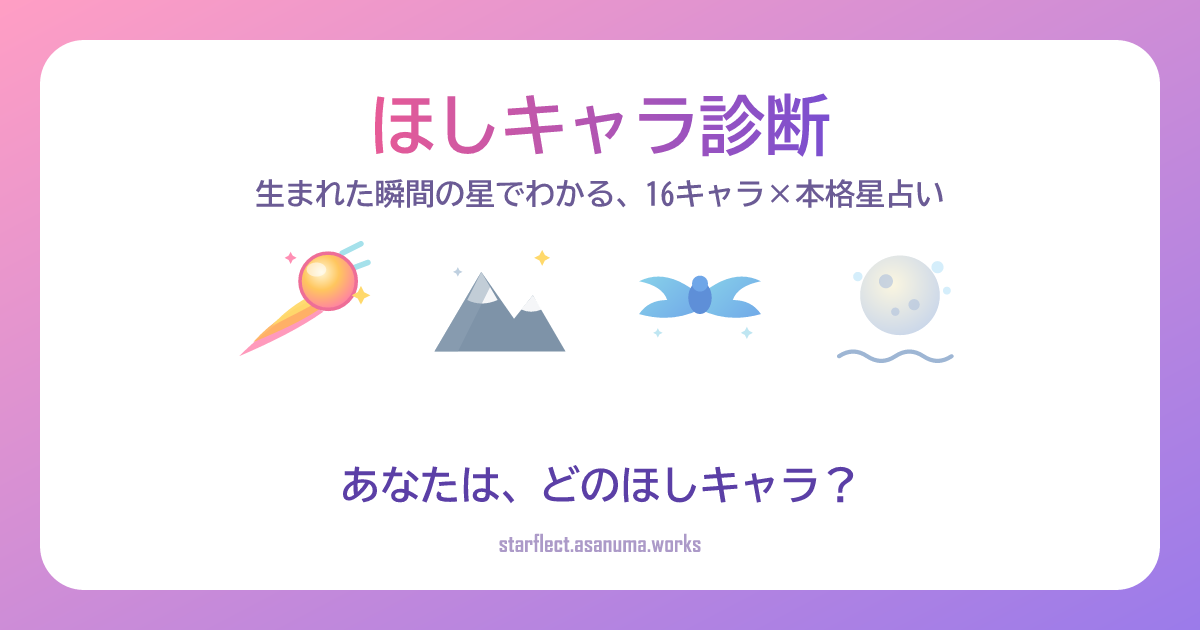
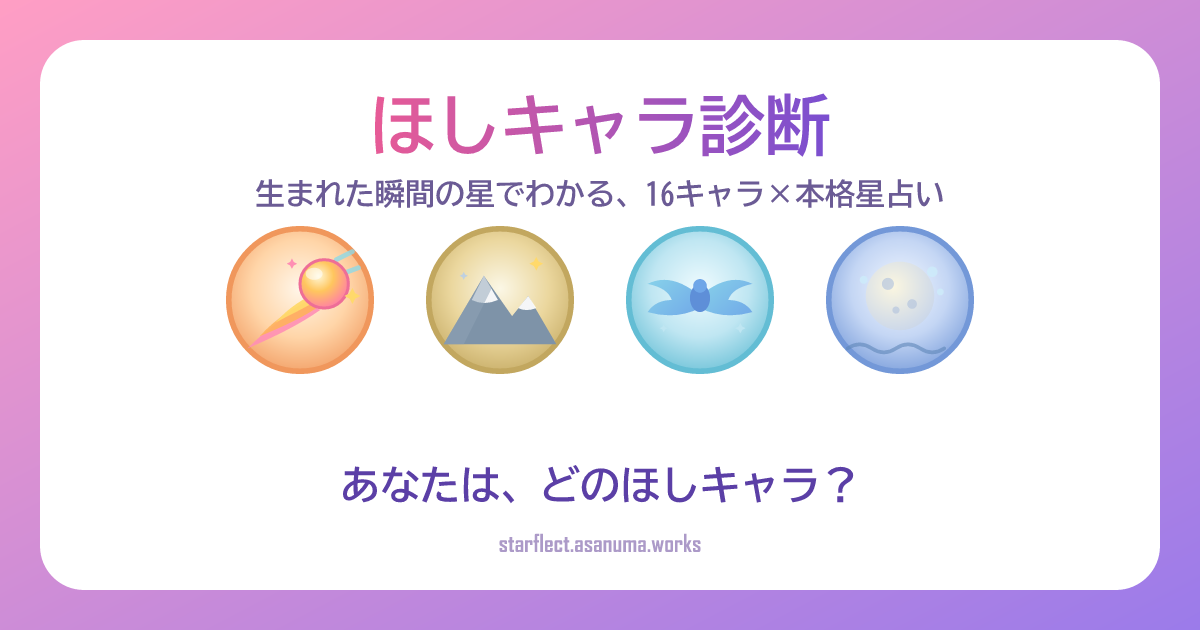
ほしキャラに「舞台」を持たせ、16キャラの個性を立てる
16枚のイラストは元からあったが、カード背景に素のSVGが浮いているだけで、
どのキャラも同じアイコンに見えていた。絵は描き直さず、見せ方を変える。

面＝太陽(表の顔)、輪郭＝月(心の中)。アプリが説明している「太陽×月」の式を
そのまま色にするので、4×4＝16通りの配色が生まれる。ゆらぎも太陽のエレメントで
変え、キャラごとに違う「光っているもの」だけが明滅する。

コンポーネント1つの変更で結果・相棒ホーム・相談室・相性・LP・キャラ別ページの
全12箇所に効く。同じコンポーネントから作っているOGP画像16枚も再生成した。

Changed region(s): [[0.185, 0.3619, 0.4933, 0.6032], [0.6783, 0.3619, 0.8325, 0.6032], [0.5242, 0.3619, 0.6475, 0.6032]]

diff --git a/src/components/HoshiKyaraMascot.tsx b/src/components/HoshiKyaraMascot.tsx
@@ -32,7 +32,7 @@ function scene(key: Key, id: string): ReactNode {
           <path d="M37 34 C25 39 15 47 6 56 C20 50 32 44 42 37 Z" fill="#FF8FB4" opacity="0.9" />
           <path d="M39 31 C30 35 20 41 12 50 C24 45 35 40 43 34 Z" fill="#FFB25C" opacity="0.9" />
           <path d="M41 28 C34 31 26 36 20 43 C30 38 38 34 44 30 Z" fill="#FFD96B" opacity="0.95" />
-          <circle cx="44" cy="24" r="12" fill={`url(#${g('h')})`} stroke="#EE6E97" strokeWidth="1.5" />
+          <circle className="hk-glow" cx="44" cy="24" r="12" fill={`url(#${g('h')})`} stroke="#EE6E97" strokeWidth="1.5" />
           <ellipse cx="39" cy="19" rx="4.2" ry="3" fill="#ffffff" opacity="0.55" />
           {spark(58, 30, 4, '#FFD96B')}
           {spark(28, 14, 2.6, '#FF8FB4')}
@@ -54,7 +54,7 @@ function scene(key: Key, id: string): ReactNode {
             d="M32 8 C40 20 44 26 44 36 A12 12 0 0 1 20 36 C20 30 24 26 27 21 C29 29 32 29 33 28 C31 21 30 15 32 8 Z"
             fill={`url(#${g('f')})`}
           />
-          <path d="M32 24 C36 30 37 33 37 37 A5 5 0 0 1 27 37 C27 33 30 30 32 24 Z" fill="#FFE884" opacity="0.9" />
+          <path className="hk-glow" d="M32 24 C36 30 37 33 37 37 A5 5 0 0 1 27 37 C27 33 30 30 32 24 Z" fill="#FFE884" opacity="0.9" />
           {spark(48, 16, 3, '#FFCF4D')}
         </>
       )
@@ -73,7 +73,7 @@ function scene(key: Key, id: string): ReactNode {
             <circle cx="45" cy="41" r="1.8" fill="#F5A0C6" />
             <circle cx="19" cy="41" r="1.8" fill="#7FC8E8" />
           </g>
-          <circle cx="32" cy="26" r="3" fill="#FFF0B8" />
+          <circle className="hk-glow" cx="32" cy="26" r="3" fill="#FFF0B8" />
           <path d="M31 50 q1 -6 1 -14" stroke="#F5C24A" strokeWidth="1.6" fill="none" strokeLinecap="round" opacity="0.7" />
           {spark(52, 48, 2.4, '#FF8FB4')}
         </>
@@ -93,7 +93,7 @@ function scene(key: Key, id: string): ReactNode {
           />
           <path d="M22 38 q5 -5 10 0 t10 0 a10 10 0 0 1 -20 0 z" fill="#5FB3E8" />
           <path d="M22 39 q5 -4.5 10 0 t10 0" fill="none" stroke="#ffffff" strokeWidth="1.4" strokeLinecap="round" opacity="0.7" />
-          {spark(46, 14, 3, '#FFE29A')}
+          <g className="hk-glow">{spark(46, 14, 3, '#FFE29A')}</g>
         </>
       )
     case '地火': // 静かな火山
@@ -106,7 +106,7 @@ function scene(key: Key, id: string): ReactNode {
           <path d="M12 52 L26 20 h12 L52 52 Z" fill="#8A7F94" />
           <path d="M26 20 h12 L44 34 q-12 5 -24 0 Z" fill="#75697F" opacity="0.6" />
           <ellipse cx="32" cy="20" rx="7" ry="2.4" fill="#FF7A3C" />
-          <ellipse cx="32" cy="20" rx="3.4" ry="1.2" fill="#FFD34D" />
+          <ellipse className="hk-glow" cx="32" cy="20" rx="3.4" ry="1.2" fill="#FFD34D" />
           <path d="M26 24 q6 3 12 0" stroke="#FF8A4B" strokeWidth="2" fill="none" strokeLinecap="round" opacity="0.6" />
           {spark(50, 16, 2.6, '#FFCF4D')}
         </>
@@ -118,7 +118,7 @@ function scene(key: Key, id: string): ReactNode {
           <path d="M24 20 L31 32 q-7 3 -13 0 Z" fill="#ffffff" opacity="0.92" />
           <path d="M46 30 L50 36 q-5 2 -9 0 Z" fill="#ffffff" opacity="0.92" />
           <path d="M4 54 L24 20 L28 26 L14 54 Z" fill="#8FA3B6" opacity="0.5" />
-          {spark(50, 14, 3.4, '#FFD96B')}
+          <g className="hk-glow">{spark(50, 14, 3.4, '#FFD96B')}</g>
           {spark(14, 20, 2, '#BFD0E0')}
         </>
       )
@@ -135,14 +135,14 @@ function scene(key: Key, id: string): ReactNode {
             <path d="M50 24 q5 -1 8 2" />
           </g>
           <path d="M50 34 q3 3 0 6 q-3 -1 -2 -4" fill="#8FC46B" />
-          {spark(14, 16, 2.6, '#FFE29A')}
+          <g className="hk-glow">{spark(14, 16, 2.6, '#FFE29A')}</g>
         </>
       )
     case '地水': // 泉を隠す森
       return (
         <>
           <ellipse cx="32" cy="50" rx="15" ry="5" fill="#7FC0E8" />
-          <ellipse cx="32" cy="49" rx="9" ry="2.6" fill="#B8E2F5" opacity="0.8" />
+          <ellipse className="hk-glow" cx="32" cy="49" rx="9" ry="2.6" fill="#B8E2F5" opacity="0.8" />
           <path d="M20 44 L14 30 L26 30 Z" fill="#6FA84E" />
           <path d="M20 36 L15 24 L25 24 Z" fill="#8CC46B" />
           <rect x="18.5" y="42" width="3" height="6" fill="#8A5E38" />
@@ -161,7 +161,7 @@ function scene(key: Key, id: string): ReactNode {
             <path d="M10 34 h30 a5 5 0 1 1 -5 5" opacity="0.85" />
             <path d="M8 44 h18 a4 4 0 1 0 -4 -4" opacity="0.7" />
           </g>
-          <g>
+          <g className="hk-glow">
             <circle cx="46" cy="20" r="2.4" fill="#FF8A3C" />
             <circle cx="52" cy="34" r="2" fill="#FFB25C" />
             <circle cx="40" cy="46" r="1.8" fill="#FF7A5B" />
@@ -180,7 +180,7 @@ function scene(key: Key, id: string): ReactNode {
           <path d="M32 16 L37 32 L32 30 Z" fill="#E8574F" />
           <path d="M32 48 L27 32 L32 34 Z" fill="#5E6E86" />
           <circle cx="32" cy="32" r="2.4" fill="#3a2f57" />
-          {spark(53, 14, 2.6, '#FFD96B')}
+          <g className="hk-glow">{spark(53, 14, 2.6, '#FFD96B')}</g>
         </>
       )
     case '風風': // 自由な渡り鳥
@@ -196,14 +196,16 @@ function scene(key: Key, id: string): ReactNode {
           <path d="M32 30 q14 -12 26 -6 q-10 2 -12 8 q8 0 12 6 q-14 4 -26 -2 Z" fill={`url(#${g('w')})`} />
           <ellipse cx="32" cy="31" rx="5" ry="7" fill="#5E8FD8" />
           <circle cx="32" cy="25" r="3.4" fill="#6FA6E8" />
-          {spark(52, 46, 2.6, '#BFE6F2')}
-          {spark(14, 46, 2, '#BFE6F2')}
+          <g className="hk-glow">
+            {spark(52, 46, 2.6, '#BFE6F2')}
+            {spark(14, 46, 2, '#BFE6F2')}
+          </g>
         </>
       )
     case '風水': // 月夜のそよ風
       return (
         <>
-          <path d="M40 12 a16 16 0 1 0 6 24 a13 13 0 1 1 -6 -24 Z" fill="#F6E7A8" stroke="#E3CB6B" strokeWidth="1.2" />
+          <path className="hk-glow" d="M40 12 a16 16 0 1 0 6 24 a13 13 0 1 1 -6 -24 Z" fill="#F6E7A8" stroke="#E3CB6B" strokeWidth="1.2" />
           <g fill="none" stroke="#7FC8E0" strokeWidth="2.4" strokeLinecap="round" opacity="0.9">
             <path d="M8 44 h20 a4 4 0 1 0 -4 -4" />
             <path d="M12 52 h14 a3.4 3.4 0 1 1 -3 3" opacity="0.8" />
@@ -218,7 +220,7 @@ function scene(key: Key, id: string): ReactNode {
           <path d="M12 54 L26 24 h12 L52 54 Z" fill="#3C5A86" />
           <path d="M26 24 h12 L44 36 q-12 5 -24 0 Z" fill="#2E4870" opacity="0.7" />
           <ellipse cx="32" cy="24" rx="6.5" ry="2.2" fill="#FF7A3C" />
-          <ellipse cx="32" cy="24" rx="3" ry="1" fill="#FFD34D" />
+          <ellipse className="hk-glow" cx="32" cy="24" rx="3" ry="1" fill="#FFD34D" />
           <path d="M28 28 q4 4 8 0" stroke="#FF8A4B" strokeWidth="2" fill="none" strokeLinecap="round" opacity="0.6" />
           <g fill="#CDEBFA" opacity="0.9">
             <circle cx="46" cy="20" r="2.4" />
@@ -239,7 +241,7 @@ function scene(key: Key, id: string): ReactNode {
           <g stroke="#7FB6D8" strokeWidth="1.8" strokeLinecap="round" fill="none" opacity="0.85">
             <path d="M8 54 q4 -3 8 0 t8 0 t8 0 t8 0 t8 0" />
           </g>
-          {spark(52, 14, 2.6, '#CDEBFA')}
+          <g className="hk-glow">{spark(52, 14, 2.6, '#CDEBFA')}</g>
         </>
       )
     case '水風': // 風をうつす水面
@@ -254,7 +256,7 @@ function scene(key: Key, id: string): ReactNode {
             <path d="M12 20 h22 a4 4 0 1 0 -4 -4" />
             <path d="M16 28 h16 a3.4 3.4 0 1 1 -3 3" opacity="0.8" />
           </g>
-          {spark(50, 16, 2.6, '#CDEBFA')}
+          <g className="hk-glow">{spark(50, 16, 2.6, '#CDEBFA')}</g>
         </>
       )
     case '水水': // 深海の月
@@ -266,7 +268,7 @@ function scene(key: Key, id: string): ReactNode {
               <stop offset="100%" stopColor="#C9D6EA" />
             </radialGradient>
           </defs>
-          <circle cx="32" cy="30" r="17" fill={`url(#${g('m')})`} />
+          <circle className="hk-glow" cx="32" cy="30" r="17" fill={`url(#${g('m')})`} />
           <g fill="#B6C6DE" opacity="0.7">
             <circle cx="26" cy="24" r="3" />
             <circle cx="38" cy="34" r="2.4" />
@@ -283,19 +285,49 @@ function scene(key: Key, id: string): ReactNode {
   }
 }
 
+/**
+ * 舞台(背景の円)の色。**外側＝太陽（表の顔）／中心＝月（心の中）** で、
+ * アプリが説明している「太陽×月」の式をそのまま色にしている。
+ * 4×4＝16通りなので、キャラごとに自分の色を持つことになる。
+ */
+const STAGE: Record<Element, { core: string; light: string; deep: string }> = {
+  火: { core: '#FFF6E9', light: '#FFD5A8', deep: '#F0975C' },
+  地: { core: '#FBF7E6', light: '#EBD79E', deep: '#C2A75F' },
+  風: { core: '#EFFBFE', light: '#BFE6F2', deep: '#63BDD4' },
+  水: { core: '#F2F7FF', light: '#C4D6F4', deep: '#7398D8' },
+}
+
+/** ゆらぎ方も太陽のエレメントで変える(火は揺れる／地はほとんど動かない／風は流れる／水は漂う) */
+const MOTION: Record<Element, string> = { 火: 'fire', 地: 'earth', 風: 'air', 水: 'water' }
+
 interface Props {
   sunElement: Element
   moonElement: Element
   size?: number
 }
 
-/** ほしキャラのマスコット(SVG)。16キャラそれぞれ固有のポップイラスト(顔なし)。 */
+/** ほしキャラのマスコット(SVG)。16キャラそれぞれ固有のポップイラスト(顔なし)＋固有の舞台。 */
 export default function HoshiKyaraMascot({ sunElement, moonElement, size = 72 }: Props) {
   const uid = useId().replace(/:/g, '')
   const key = `${sunElement}${moonElement}` as Key
+  const sun = STAGE[sunElement]
+  const moon = STAGE[moonElement]
   return (
     <svg width={size} height={size} viewBox="0 0 64 64" role="img" aria-hidden="true">
-      {scene(key, uid)}
+      <defs>
+        <radialGradient id={`${uid}stage`} cx="50%" cy="42%" r="66%">
+          <stop offset="0%" stopColor={sun.core} />
+          <stop offset="52%" stopColor={sun.light} />
+          <stop offset="100%" stopColor={sun.deep} />
+        </radialGradient>
+      </defs>
+      {/* 面＝太陽(表の顔)、輪郭＝月(心の中)。中心に月の色を置くと絵の下に隠れて見えないので輪郭に出す */}
+      <circle cx="32" cy="32" r="30.4" fill={`url(#${uid}stage)`} />
+      <circle cx="32" cy="32" r="30.4" fill="none" stroke={moon.deep} strokeWidth="2.4" />
+      {/* 絵は少し縮めて円の中に収める(山や水面など端まで描いているキャラが枠から出ないように) */}
+      <g transform="translate(32 32) scale(0.86) translate(-32 -32)">
+        <g className={`hk-m hk-m-${MOTION[sunElement]}`}>{scene(key, uid)}</g>
+      </g>
     </svg>
   )
 }

diff --git a/src/styles.css b/src/styles.css
@@ -1684,6 +1684,86 @@ body {
   margin: 0;
 }
 
+/* ---------- ほしキャラの舞台(マスコットの背景円と、キャラごとのゆらぎ) ---------- */
+/* SVGの<g>にCSS transformをかけるので、原点を自分のバウンディングボックスの中心にする */
+.hk-m {
+  transform-box: fill-box;
+  transform-origin: center;
+}
+
+/* キャラごとに「光っているもの」が違う(火口・彗星の核・月・泉の照り返し…)。そこだけが明滅する */
+.hk-glow {
+  animation: hk-glow 3.4s ease-in-out infinite alternate;
+}
+
+@keyframes hk-glow {
+  from {
+    opacity: 0.5;
+  }
+  to {
+    opacity: 1;
+  }
+}
+
+.hk-m-fire {
+  animation: hk-fire 4.2s ease-in-out infinite alternate;
+}
+
+@keyframes hk-fire {
+  from {
+    transform: translateY(0.6px) scale(0.99);
+  }
+  to {
+    transform: translateY(-0.6px) scale(1.012);
+  }
+}
+
+.hk-m-earth {
+  animation: hk-earth 7s ease-in-out infinite alternate;
+}
+
+@keyframes hk-earth {
+  from {
+    transform: scale(0.996);
+  }
+  to {
+    transform: scale(1.008);
+  }
+}
+
+.hk-m-air {
+  animation: hk-air 5.4s ease-in-out infinite alternate;
+}
+
+@keyframes hk-air {
+  from {
+    transform: translateX(-0.9px) rotate(-1.2deg);
+  }
+  to {
+    transform: translateX(0.9px) rotate(1.2deg);
+  }
+}
+
+.hk-m-water {
+  animation: hk-water 6.2s ease-in-out infinite alternate;
+}
+
+@keyframes hk-water {
+  from {
+    transform: translateY(-0.8px);
+  }
+  to {
+    transform: translateY(0.8px);
+  }
+}
+
+@media (prefers-reduced-motion: reduce) {
+  .hk-m,
+  .hk-glow {
+    animation: none;
+  }
+}
+
 /* ---------- ほしキャラカード(結果の入口) ---------- */
 .type-card {
   position: relative;

diff --git a/server/pages.ts b/server/pages.ts
@@ -145,6 +145,7 @@ section .lead{text-align:left;color:var(--ink-sub);font-size:14px;margin-bottom:
 .starslink{display:block;text-align:center;margin:8px 0 0;font-size:13.5px}
 .footer{text-align:center;color:var(--ink-sub);font-size:12px;padding:32px 0;border-top:1px solid var(--line);margin-top:40px;line-height:1.9}
 @media(max-width:400px){.tgrid{grid-template-columns:1fr}}
+.hk-m{transform-box:fill-box;transform-origin:center}.hk-glow{animation:hk-glow 3.4s ease-in-out infinite alternate}@keyframes hk-glow{from{opacity:.5}to{opacity:1}}.hk-m-fire{animation:hk-fire 4.2s ease-in-out infinite alternate}@keyframes hk-fire{from{transform:translateY(.6px) scale(.99)}to{transform:translateY(-.6px) scale(1.012)}}.hk-m-earth{animation:hk-earth 7s ease-in-out infinite alternate}@keyframes hk-earth{from{transform:scale(.996)}to{transform:scale(1.008)}}.hk-m-air{animation:hk-air 5.4s ease-in-out infinite alternate}@keyframes hk-air{from{transform:translateX(-.9px) rotate(-1.2deg)}to{transform:translateX(.9px) rotate(1.2deg)}}.hk-m-water{animation:hk-water 6.2s ease-in-out infinite alternate}@keyframes hk-water{from{transform:translateY(-.8px)}to{transform:translateY(.8px)}}@media(prefers-reduced-motion:reduce){.hk-m,.hk-glow{animation:none}}
 `
 
 const esc = (s: string) => s.replace(/&/g, '&amp;').replace(/</g, '&lt;').replace(/>/g, '&gt;').replace(/"/g, '&quot;')

diff --git a/scripts/gen-ogp.tsx b/scripts/gen-ogp.tsx
@@ -43,9 +43,6 @@ const T: Record<Element, Record<Element, { name: string; copy: string }>> = {
   },
 }
 
-// 太陽エレメントのやわらかい下地色(マスコットの円背景)
-const TINT: Record<Element, string> = { 火: '#FFE1E9', 地: '#E9F1DA', 風: '#DEF0F8', 水: '#DDE7F8' }
-
 const font = readFileSync(new URL('./assets/ZenMaruGothic-Bold.ttf', import.meta.url))
 
 /** マスコットのSVG中身(<svg>を剥がした内側)を、id衝突しないようプレフィックス付きで返す */
@@ -104,7 +101,6 @@ function cardSvg(sun: Element, moon: Element): string {
     <text x="20" y="8" font-family="Zen Maru Gothic" font-size="30" font-weight="700" fill="#B26A98">ほしキャラ診断</text>
   </g>
 
-  <circle cx="600" cy="272" r="140" fill="${TINT[sun]}"/>
   ${placeMascot(sun, moon, 600, 272, 232, 'm')}
 
   <text x="600" y="470" text-anchor="middle" font-family="Zen Maru Gothic" font-size="${ns}" font-weight="700" fill="url(#name)">${info.name}</text>

diff --git a/TODO.md b/TODO.md
@@ -79,6 +79,14 @@
   - 運行天体の記号（☉♀など）もカードから外した。良し悪しは既存の［ラッキー/注意］バッジで足りる
   - 反映先：今日の運勢カード（ソロ／相棒ホーム）＋週末カードの「追い風/注意」行。相性のAI文脈は `title` のまま＝精度維持
   - 言語ごとの性数一致に注意：`Tu`(es)/`Votre`(fr) は不変化なので所有格を付け、it/pt は付けずに頭を大文字にした
+- **ほしキャラのビジュアル強化＝キャラごとの「舞台」** — （2026-07-29）
+  - 16枚のイラストは元からあったが、**カード背景に素のSVGが浮いているだけ**で、どれも同じ「アイコン」に見えていた。絵は描き直さず、**見せ方**を変えた
+  - **面＝太陽（表の顔）／輪郭＝月（心の中）**。アプリが説明している「太陽×月」の式をそのまま色にしたので、4×4＝**16通りの配色**が生まれ、キャラが自分の色を持つ
+    - ⚠ **最初の版は失敗**：月の色を円の**中心**に置いたら、絵がその上に乗って**まったく見えなかった**（グラデ自体は16通り正しく出ていたのに、画面では全部同じ桃色に見える）。月は**輪郭**に出して解決
+  - **ゆらぎ**：太陽のエレメントで動きを変える（火＝揺れる／地＝ほぼ動かない／風＝流れる／水＝漂う）＋**キャラごとに違う「光っているもの」だけが明滅**（火口・彗星の核・月・泉の照り返し…16箇所を個別に指定）。`prefers-reduced-motion` では停止
+  - 絵は 0.86 倍に縮めて円に収めた（山・水面など端まで描いているキャラが枠から出るため）
+  - **コンポーネント1つの変更で全12箇所に波及**（結果・相棒ホーム・相談室・相性・フィードバック・ホーム・リビール演出・LP・キャラ別ページ）
+  - **OGP画像16枚も再生成**（同じコンポーネントから作られているため）。マスコットが自前の舞台を持ったので、旧来の下地の円（`TINT`）は色がぶつかるため削除
 - **運勢カードの空模様も日常語に** — （2026-07-28）
   - 「太陽は◯◯座、月は◯◯座を運行中」→ **「今日は、◯◯の空気が流れています」**（7言語・12星座＝84通りを読み合わせ済み）
   - 手がかりは**運行中の月の星座**（約2.5日で移る＝毎日の気分の色）。そのキーワードを1語だけ借りる＝**毎日変わる**ので「今日ひらく理由」にもなる
@@ -312,7 +320,7 @@
 - [x] **相棒ホームの情報整理**（運勢を一等地に・地図を畳む） — `c18b604`
 - [x] **診断後の「まずはここから」導線**（初回だけ「この先の楽しみ方」案内→相談室） — `c18b604`
 - [x] **用語と分類の統一**（かけらぼし／3グループ／`/stars`） — `d630112`
-- [ ] **ほしキャラのビジュアル強化** — 16キャラの個性がもっと伝わる見せ方（未着手）
+- [x] **ほしキャラのビジュアル強化** — キャラごとの「舞台」（2026-07-29／下記 完了 参照）
 - [x] 運勢カードの圧縮 — 6期間タブの廃止（`e8a4147`）で短縮済み。これ以上の削減は**中身がユーザーの読みに来ている部分**なので当面やらない
 
 ---
